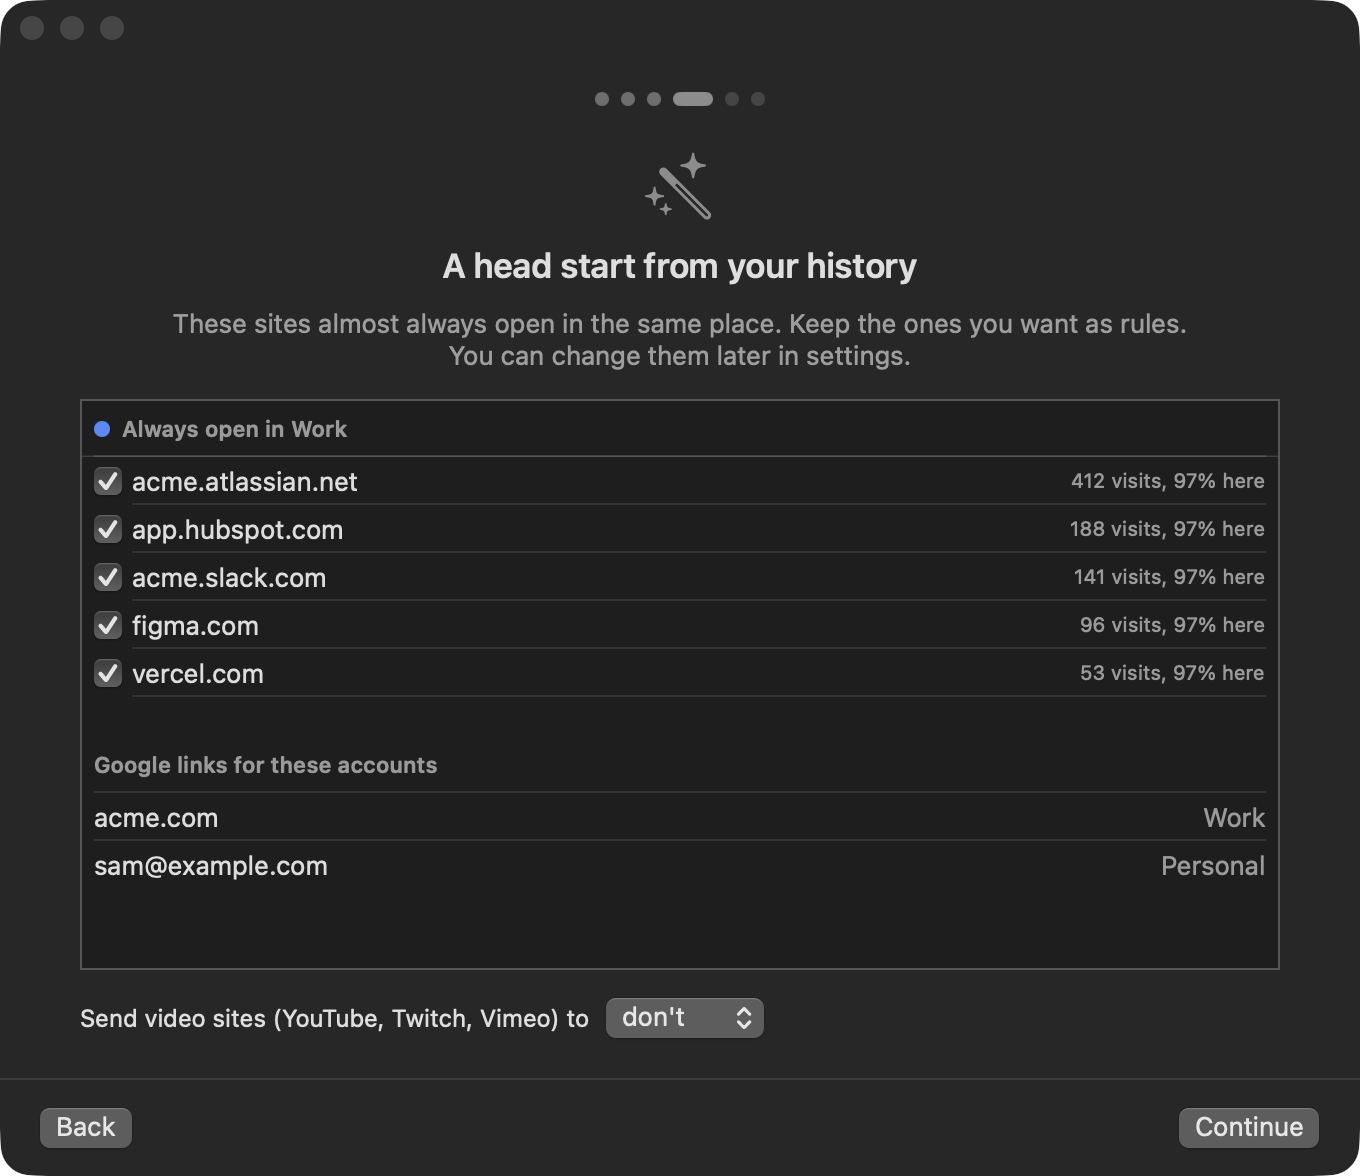
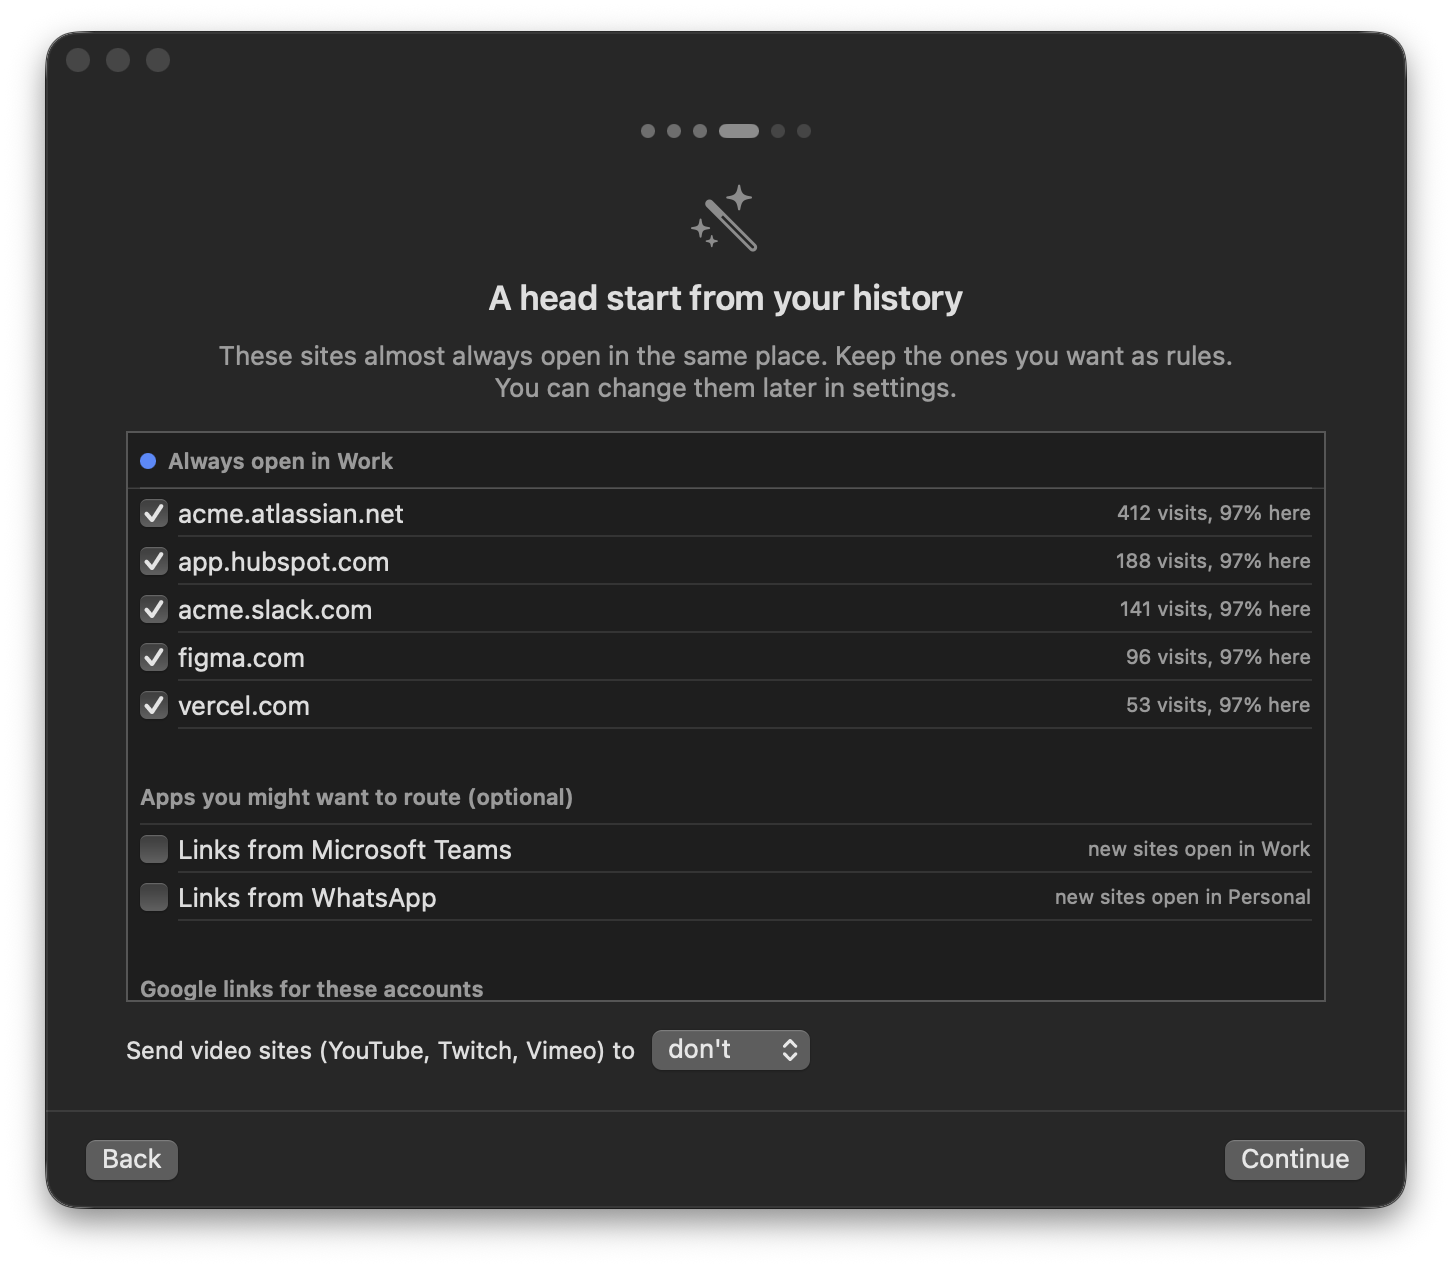
docs: demo video

diff --git a/README.md b/README.md
@@ -24,7 +24,9 @@ You click a Jira link in Slack and it opens in your personal Chrome profile. A Y
 Detour sits between your apps and your browsers and decides for you. Work links go to your work profile, video goes to your ad-blocking browser, and everything else opens where you want it. It learns from your own browsing history, so most links need no rule at all, and it only asks when it genuinely can't tell.
 
 <p align="center">
-  <img src="docs/images/onboarding-destinations.png" width="680" alt="Choosing destinations during setup">
+  <a href="https://detour.ten50.nl/media/detour.mp4"><img src="docs/images/demo.gif" width="800" alt="Detour in 30 seconds: links from Slack, Mail and Messages open in the right browser profile, with the reason shown"></a>
+  <br>
+  <sub><a href="https://detour.ten50.nl/media/detour.mp4">Watch the full video</a></sub>
 </p>
 
 ## Features
